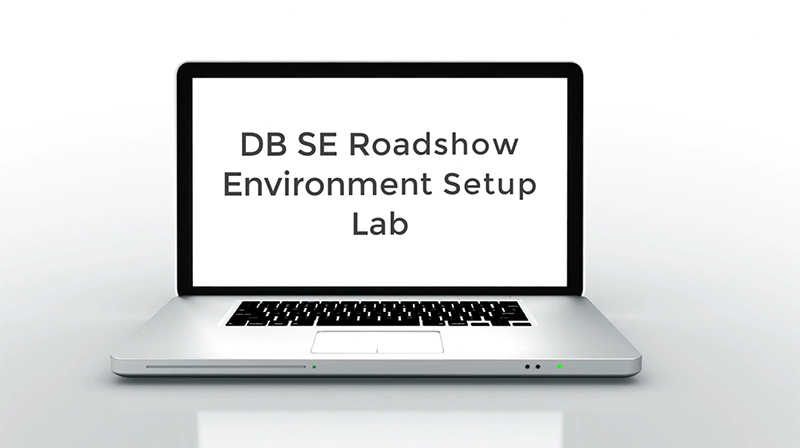
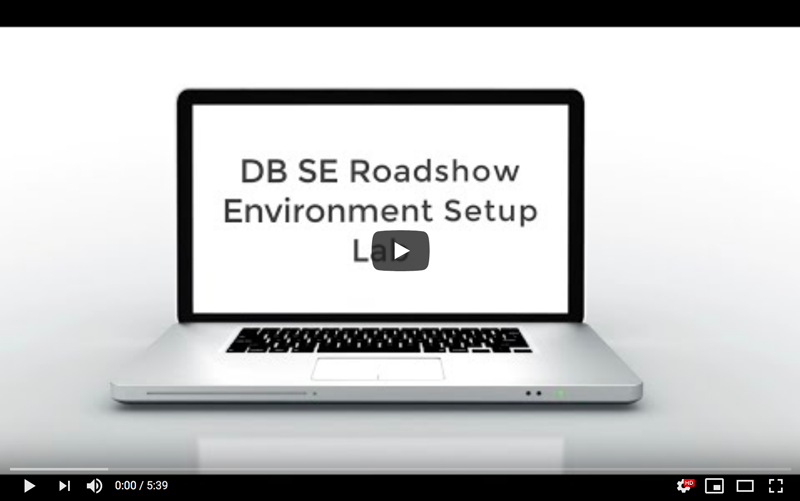
Roadshow - added preview video

diff --git a/data-management-library/database/options/environment-setup-c4u03.md b/data-management-library/database/options/environment-setup-c4u03.md
@@ -25,7 +25,7 @@ Automatically deploy a fully functional Database environment by leveraging a sim
 - Each participant has been provided an account on the c4u03 tenancy and the network (VCN) has been pre-created.
 - Each participant has been sent two emails, one from noreply@accountrecovery.oci.oraclecloud.com  with their username and another from the Database PM gmail account with their temporary password.
 
-# Lab Settings
+## Lab Settings
 - **Tenancy**:  c4u03
 - **Username/Password**:  Follow instructions below to access
 - **Compartment**: \<Provided by Oracle\>
